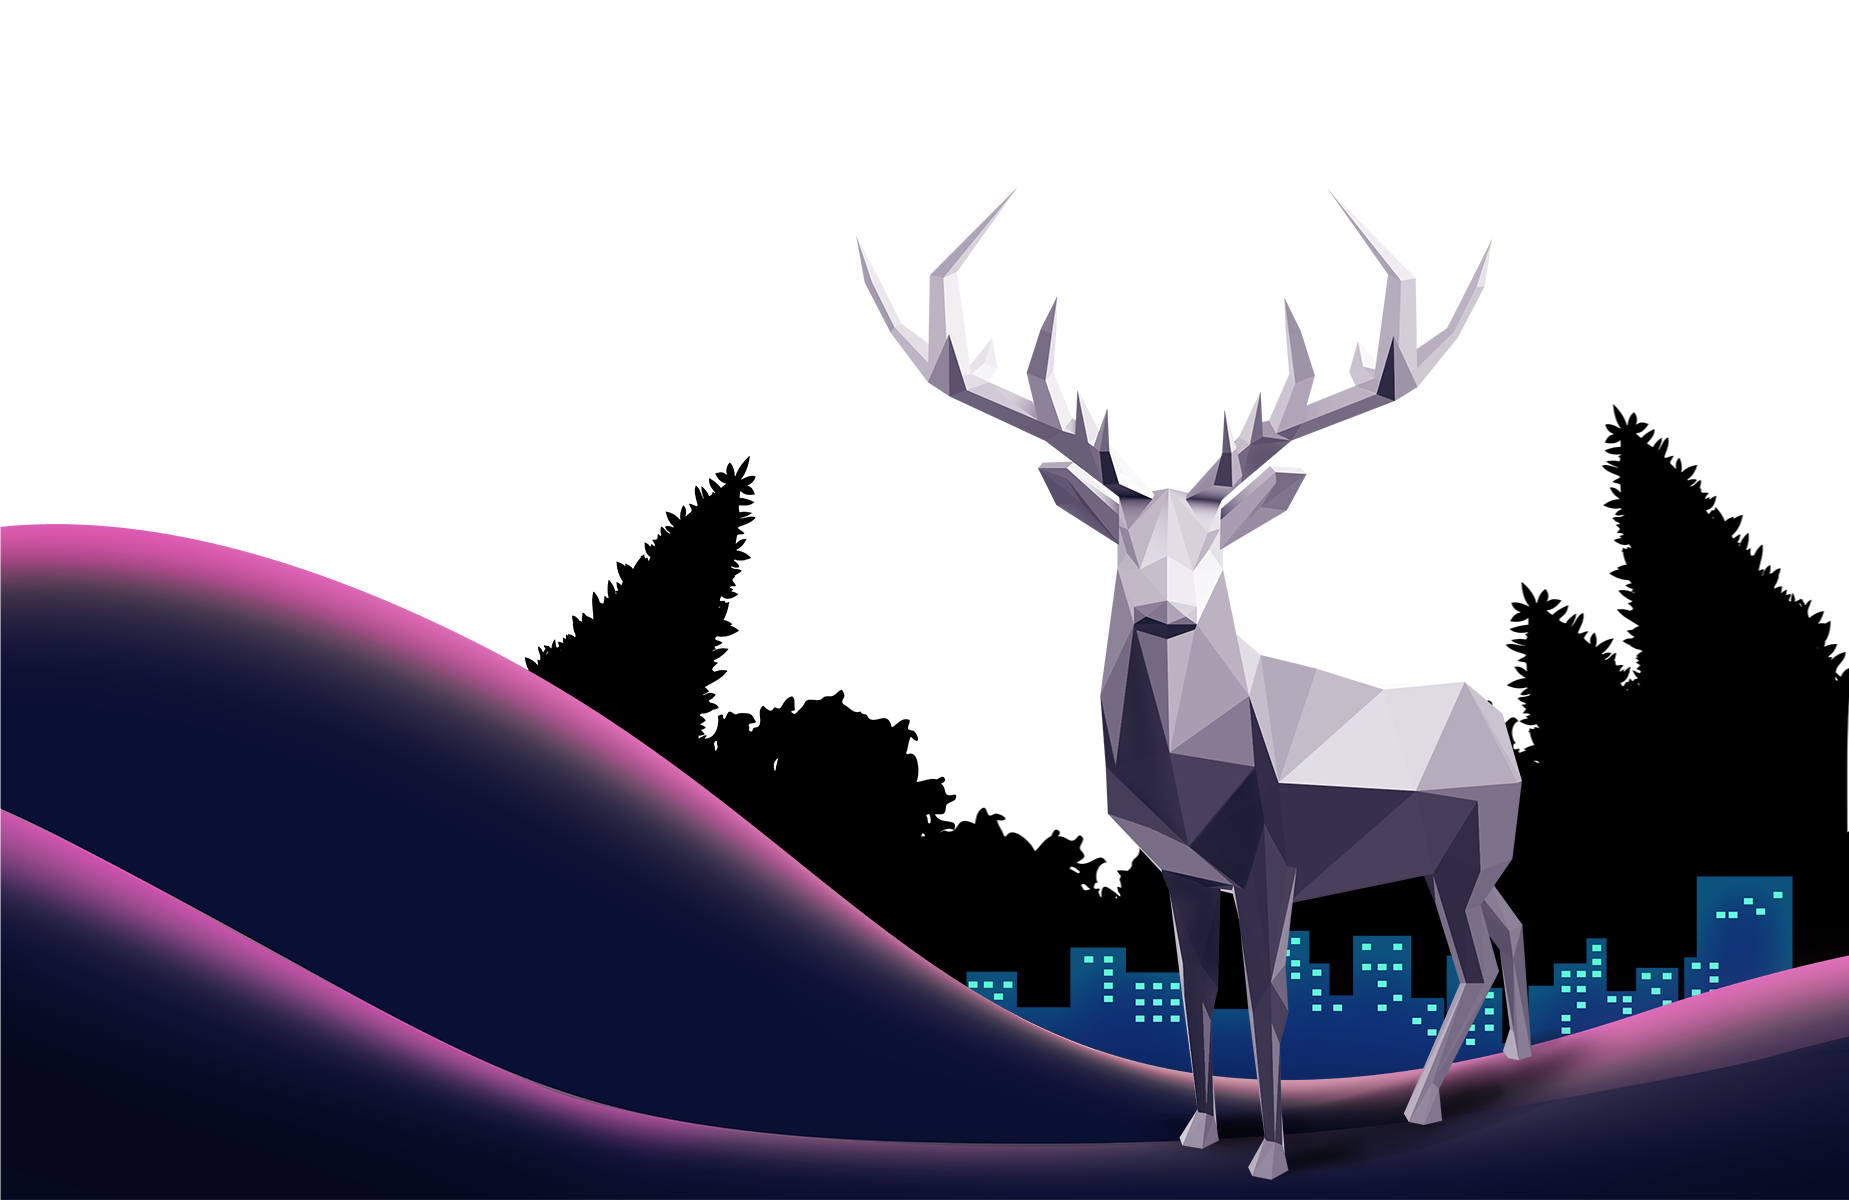
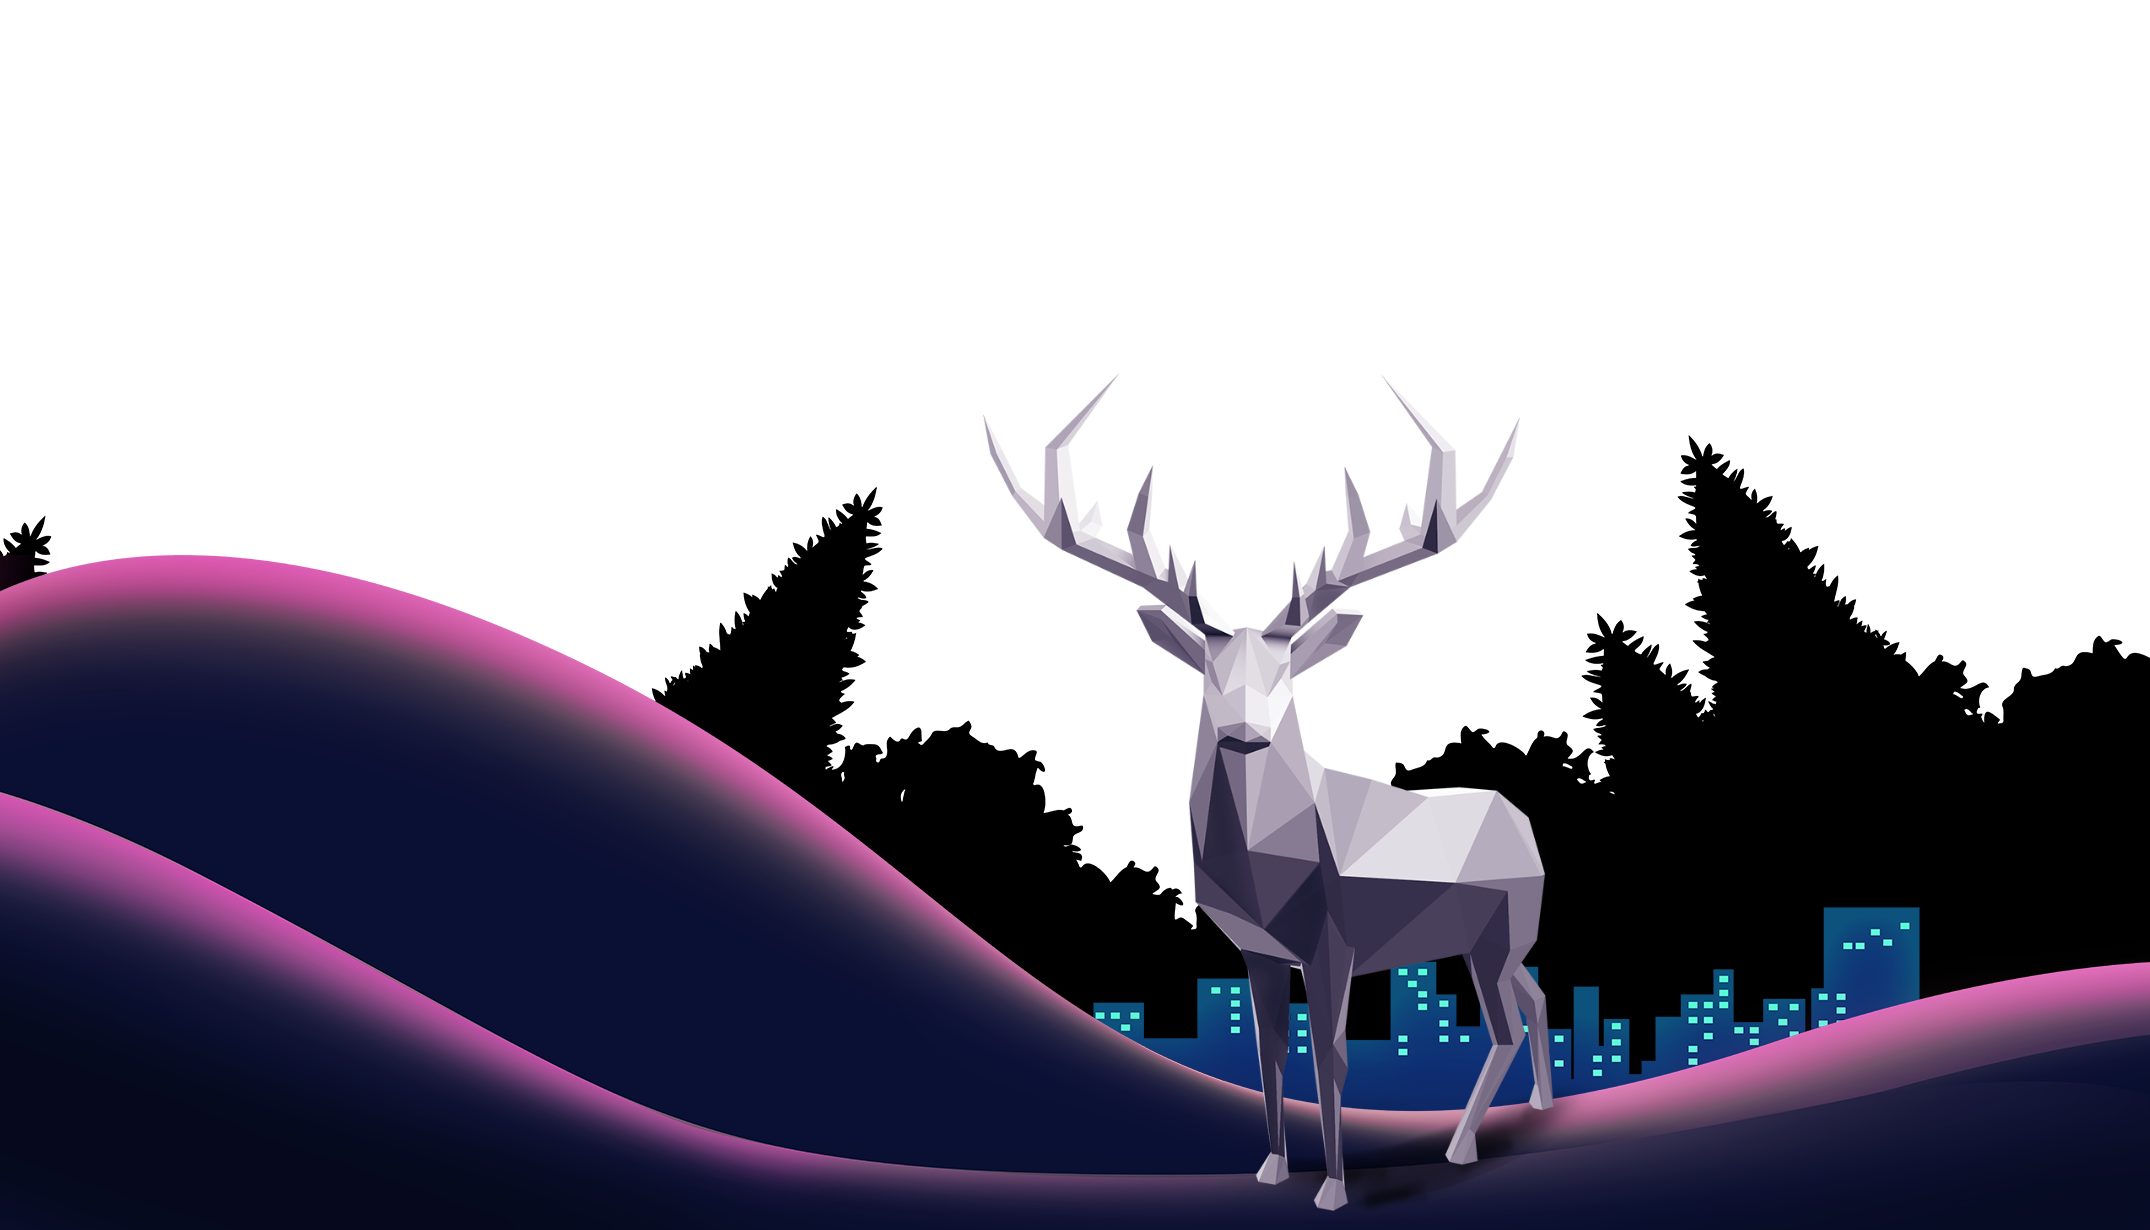
Better layout for large screens

diff --git a/src/assets/css/style.css b/src/assets/css/style.css
@@ -137,7 +137,7 @@ h6 {
 # Header
 --------------------------------------------------------------*/
 #header {
-    height: 90px;
+    /* height: 90px; */
     position: fixed;
     /* background-color: yellow; */
     left: 0;
@@ -153,43 +153,42 @@ h6 {
     /* height: 70px; */
 }
 
-#header #logo h1 {
+/* #header #logo h1 {
     font-size: 36px;
     margin: 0;
     font-family: "Raleway", sans-serif;
     font-weight: 700;
     letter-spacing: 3px;
     text-transform: uppercase;
-}
+} */
 
-#header #logo h1 span {
+/* #header #logo h1 span {
     color: #E459BB;
-}
+} */
 
-#header #logo h1 a,
+/* #header #logo h1 a,
 #header #logo h1 a:hover {
     color: #fff;
-}
+} */
 
-#header #logo img {
+/* #header #logo img {
     /* padding: 0;
     margin: 0; */
-    /* display: none; */
+    /* display: none;
     display: block;
     height: 70px;
-}
+} */
 
-#header.header-fixed #logo img,
+/* #header.header-fixed #logo img,
     #header.header-scrolled #logo img {
     display: block;
-    /* height: 70px; */
-}
+} */
 
-@media (max-width: 992px) {
+/* @media (max-width: 992px) {
     #header #logo img {
         max-height: 30px;
     }
-}
+} */
 
 /*--------------------------------------------------------------
 # Buy Tickets
@@ -246,7 +245,15 @@ h6 {
     display: flex;
     list-style: none;
     align-items: center;
-    /* background-color: blue; */
+    /* background-color: yellow; */
+}
+
+.navbar .logo img {
+    width: calc(100vw / 4);
+}
+
+#header.header-scrolled .navbar .logo img {
+    width: 20vw;
 }
 
 .navbar li {
@@ -374,6 +381,10 @@ h6 {
     }
 }
 
+/* .navbar .logo img {
+    width: 300px;
+} */
+
 /**
 * Mobile Navigation 
 */
@@ -499,6 +510,7 @@ h6 {
 #hero {
     width: 100%;
     height: 100vh;
+    max-width: 2150px;
     background-attachment: fixed;
     background-image: url("../img/hero-galaxy.png");
     background-repeat: no-repeat;
@@ -507,14 +519,15 @@ h6 {
     background-position-y: center;
     overflow: hidden;
     position: relative;
-    min-height: 350px;
+    min-height: 1000px;
+    max-height: 1600px;
 }
 
-/* @media (min-width: 1024px) {
+@media (min-width: 2150px) {
     #hero {
-        background-attachment: fixed;
+        left: calc((100% - 2150px) / 2);
     }
-} */
+}
 
 #hero:before {
     content: "";
@@ -597,8 +610,8 @@ h6 {
     position: absolute;
     display: inline-block;
     bottom: 0px;
-    left: 0px;
-    width: 45vw;
+    left: 75px;
+    width: 650px;
 }
   
 #hero .countdown-image-bottom {
@@ -618,9 +631,9 @@ h6 {
   
 #hero .countdown-text {
     position: absolute;
-    top: 62%;
-    left: 40.5%;
-    font-size: 5.5vw;
+    bottom: 46px;
+    left: 260px;
+    font-size: 85px;
     font-family: Arial, Helvetica, sans-serif;
     color: black;
     display: inline-block;
@@ -637,6 +650,7 @@ h6 {
     right: 0px;
     margin-right: 2vw;
     margin-bottom: 3vh;
+    max-width: 400px;
 }
 
 #hero .banner {
